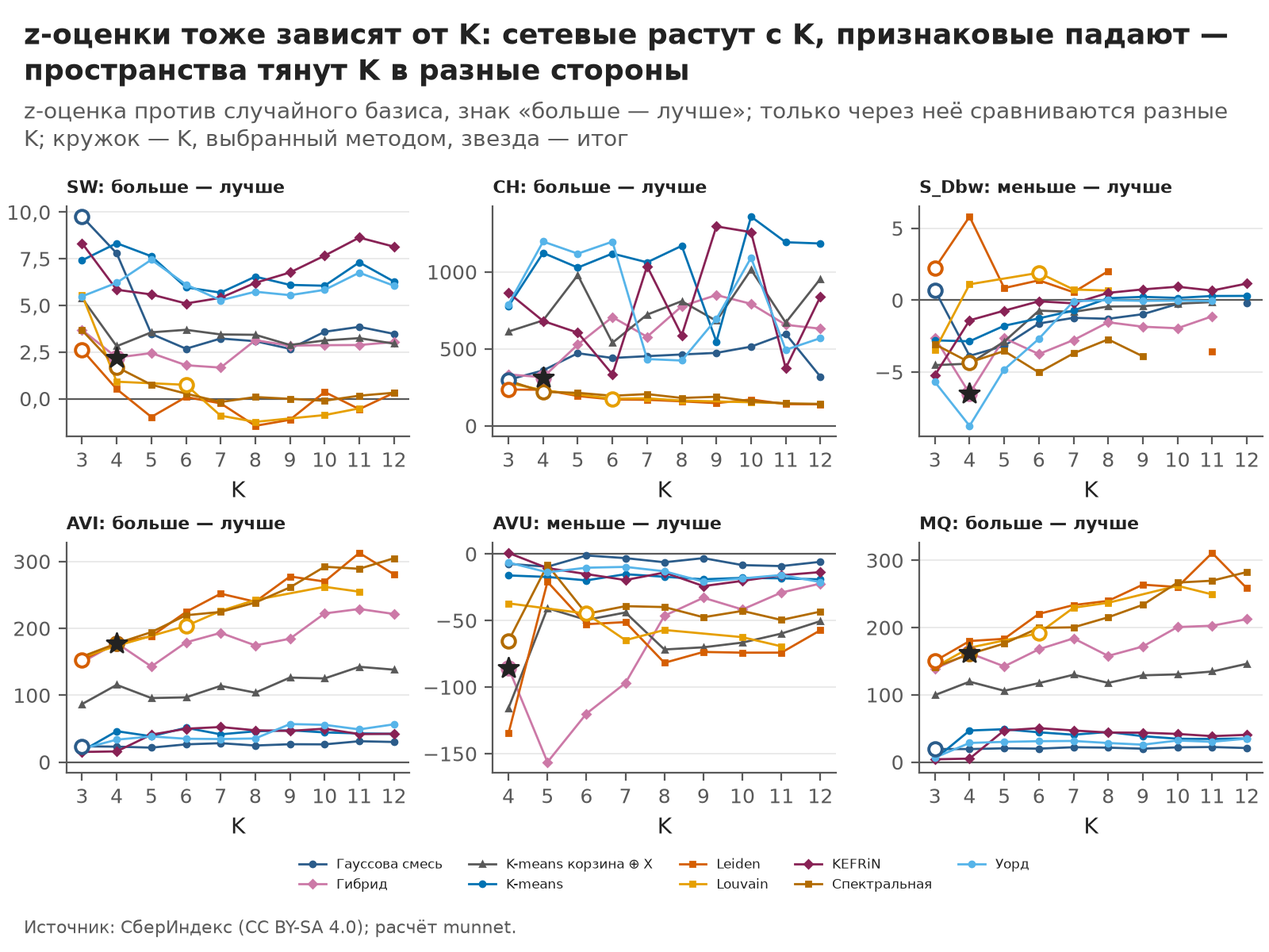
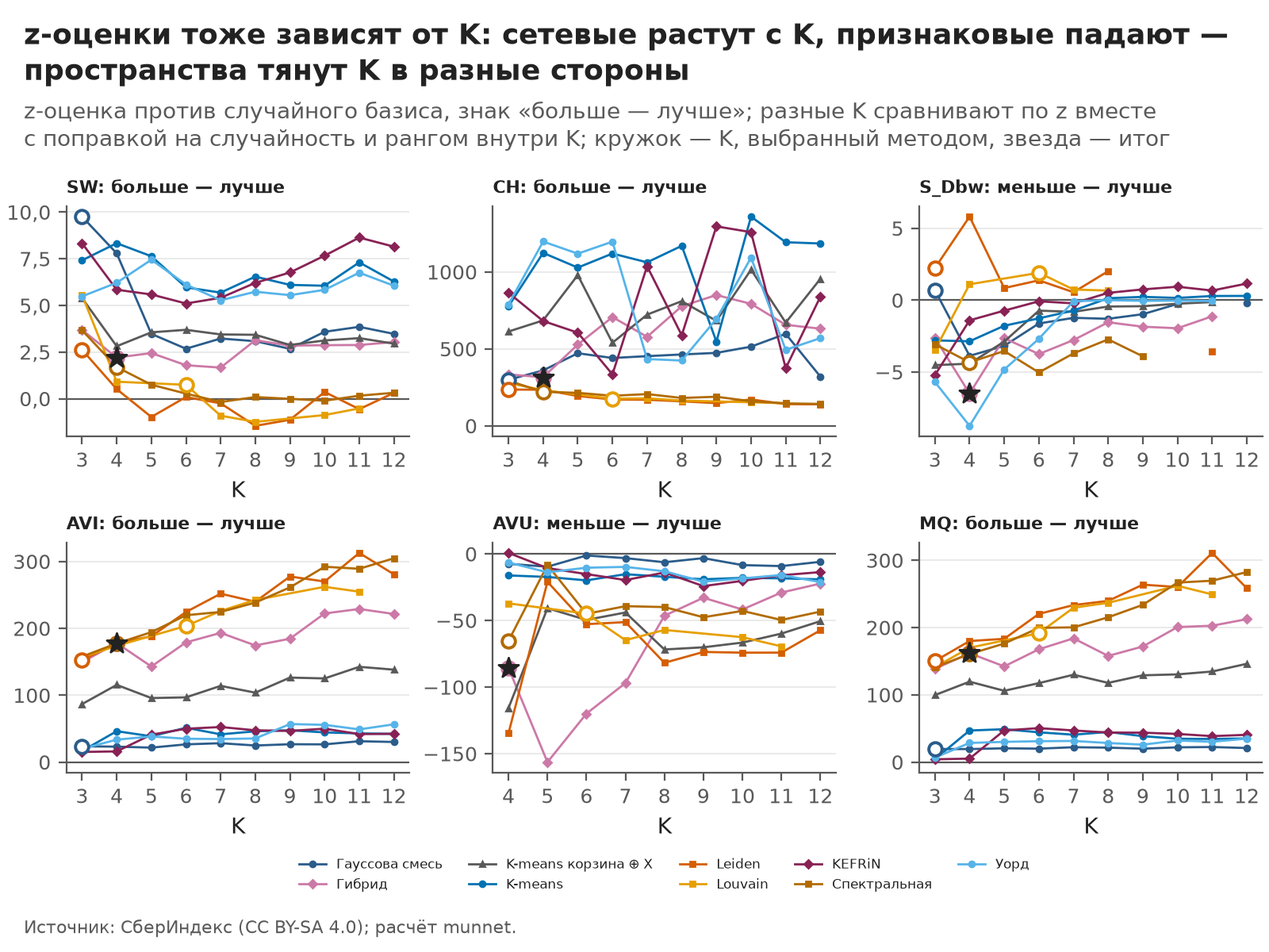
Отчёты этапов dynamics и evaluate: правки формулировок по финальному совету 05.10
- docs/dynamics.md: p = 0,379 по уровню трат больше не довод; отношение медиан 1,03 — описание,
  «уровень трат входит в признаки X, по которым строится тип окна, поэтому p по нему тоже смещено»
  (шаблон и CLAIMS munnet.dynamics.report; compute/tracking/windows/params не менялись).
- docs/icvi.md: абзац «CH и силуэт итога» (CH z ≈ 315, доля межгрупповой суммы квадратов 18% —
  считает код, between_share), пункт «Точность z» (≈ 5% при 200 перестановках, 1/√(2(n − 1))),
  подпись рис. I02 без «только через неё сравниваются разные K».
- Этапы dynamics и evaluate перезапущены в основной копии: таблицы и рисунки совпали побайтно,
  кроме замеров времени, I02 (подпись) и пяти новых ключей report_facts.json.

Проверено: check-facts (расхождений нет), тесты dynamics и icvi — 100 passed, ruff чист.

Changed region(s): [[0.5625, 0.0925, 0.9688, 0.1542], [0.0312, 0.1233, 0.5312, 0.1542]]

diff --git a/src/munnet/icvi_report.py b/src/munnet/icvi_report.py
@@ -62,6 +62,28 @@ def cand_label(method: str, k: int) -> str:
     return f"{method_label(method)}, K = {int(k)}"
 
 
+def between_share(ch: float, n: int, k: int) -> float:
+    """Доля межгрупповой суммы квадратов в общей, B / T, по значению CH (Caliński, Harabasz, 1974).
+
+    CH = [B / (K − 1)] / [W / (n − K)] и T = B + W, поэтому B / W = CH · (K − 1) / (n − K) и
+    B / T = CH · (K − 1) / (CH · (K − 1) + n − K) — тождество, без повторного чтения X. Это R² разбиения:
+    какая доля разброса признаков приходится на различия средних типов. n — объекты без шума; NaN, если CH
+    не определён или n ≤ K.
+    """
+    if not np.isfinite(ch) or n <= k or k < 2:
+        return float("nan")
+    b = float(ch) * (k - 1)
+    return b / (b + (n - k))
+
+
+def sd_rel_error(n: int) -> float:
+    """Относительная стандартная ошибка выборочного SD по n значениям нормального распределения:
+    ≈ 1/√(2(n − 1)) (при n = 200 — 5,0%). Знаменатель z — SD случайного базиса, поэтому крупная z
+    (z ≫ 1, ошибка среднего базиса пренебрежимо мала) колеблется относительно на столько же; при тяжёлом
+    хвосте базиса — сильнее. NaN при n < 2."""
+    return float(1 / np.sqrt(2 * (n - 1))) if n >= 2 else float("nan")
+
+
 # --- Факты ---------------------------------------------------------------------------------------
 
 
@@ -90,6 +112,9 @@ def build_facts(out: Path, p: EvalParams, extra: Mapping) -> tuple[dict[str, Fac
     _fact(facts, "subsample", style.fmt_pct(p.subsample, 0), "str")
     _fact(facts, "ci_scale", float(np.sqrt(p.subsample / (1 - p.subsample))), "num1")
     _fact(facts, "s_dbw_density", p.options["s_dbw_density"], "str")
+    rel = sd_rel_error(p.permutations)
+    _fact(facts, "z_rel_err", rel, "pct")
+    _fact(facts, "z_rel_err_text", style.fmt_pct(rel, 0), "str")
 
     # итог и победители
     fin = cands.loc[cands["is_final"].astype(bool)]
@@ -118,6 +143,12 @@ def build_facts(out: Path, p: EvalParams, extra: Mapping) -> tuple[dict[str, Fac
                 rank = int((col > z).sum()) + 1 if np.isfinite(z) else None
                 _fact(facts, f"final_rank_{m}", rank, "int")
                 _fact(facts, f"final_rank_n_{m}", len(col), "int")
+        # CH и силуэт итога: доля межгрупповой суммы квадратов в общей (R²) по CH, шум исключён
+        n_ok = int(round(int(extra["n_nodes"]) * (1 - float(f["noise_share"]))))
+        share = between_share(float(w.loc["ch", "value"]), n_ok, int(f["k_eff"]))
+        _fact(facts, "final_between_share", share, "pct")
+        _fact(facts, "final_between_share_text", style.fmt_pct(share, 0), "str")
+        _fact(facts, "final_z_ch_round", w.loc["ch", "z"], "int")
     _fact(facts, "n_winners", int(cands["is_method_winner"].astype(bool).sum()), "int")
 
     # согласие метрик
@@ -556,6 +587,9 @@ CLAIMS: dict[str, Callable[[Mapping[str, Fact]], bool]] = {
         _v(f, "avu_z_neg_share") > 0.5
     ),
     "радиус окрестности S_Dbw убывает с K": lambda f: _v(f, "rho_stdev_k") < 0,
+    "CH итога намного выше случайного (z > 3), а интервал силуэта итога включает ноль": lambda f: (
+        _v(f, "final_z_ch") > 3 and _v(f, "final_sw_lo") <= 0 <= _v(f, "final_sw_hi")
+    ),
     "S_Dbw не определён у части допустимых кандидатов («ломается при больших K»)": lambda f: (
         _v(f, "sdbw_nan") > 0 and _v(f, "stdev_median_nan") < _v(f, "stdev_median_ok")
     ),

diff --git a/tests/test_icvi_stage.py b/tests/test_icvi_stage.py
@@ -372,3 +372,56 @@ def test_k_fair_table(result):
     assert kf.loc[kf["k_eff"] == 4, "rank_in_k_avi"].min() == 1
     assert kf.loc["leiden_k04", "rank_in_k_avi"] == 1  # посаженное разбиение сети — лучшее при K = 4
     assert kf["pct_avi"].between(0, 1).all()
+
+
+# ---------------------------------------------------------------------------------------------
+# Защитные формулировки отчёта (финальный совет 05.10.2026): CH и силуэт, точность z, подпись рис. I02
+
+
+def test_between_share_equals_direct_sum_of_squares():
+    """Доля межгрупповой суммы квадратов в общей, восстановленная из CH, равна прямому счёту B / T."""
+    from sklearn.metrics import calinski_harabasz_score
+
+    x, y = make_blobs(n_samples=[40, 25, 60], n_features=4, cluster_std=3.0, random_state=1)
+    n, k = len(y), 3
+    tot = ((x - x.mean(0)) ** 2).sum()
+    between = sum((y == c).sum() * ((x[y == c].mean(0) - x.mean(0)) ** 2).sum() for c in range(k))
+    ch = calinski_harabasz_score(x, y)
+    assert icvi_report.between_share(ch, n, k) == pytest.approx(between / tot, abs=1e-12)
+    assert icvi_report.between_share(0.0, n, k) == 0.0
+    assert math.isnan(icvi_report.between_share(float("nan"), n, k))
+    assert math.isnan(icvi_report.between_share(ch, k, k))  # n ≤ K: CH не определён
+
+
+def test_sd_rel_error_matches_simulation():
+    """Относительная ошибка SD по n значениям нормального базиса ≈ 1/√(2(n − 1)); при 200 — около 5%."""
+    assert icvi_report.sd_rel_error(200) == pytest.approx(1 / math.sqrt(398))
+    rng = np.random.default_rng(0)
+    sds = rng.normal(size=(4000, 200)).std(axis=1, ddof=1)
+    assert sds.std() / sds.mean() == pytest.approx(icvi_report.sd_rel_error(200), rel=0.08)
+    assert math.isnan(icvi_report.sd_rel_error(1))
+
+
+def test_report_wording_ch_silhouette_z_precision_and_fig2(tmp_path, monkeypatch):
+    ids, x, a, truth = synth()
+    cfg = _cfg(tmp_path)
+    write_table(fake_labels(ids, x, truth), CLUSTER_LABELS, tmp_path / "processed" / "cluster_labels.parquet")
+    monkeypatch.setattr(icvi_stage, "load_xa", lambda cfg: (ids, x, a))
+    monkeypatch.setattr(icvi_report, "CLAIMS", {})
+    icvi.run(cfg)
+    facts = icvi_report.load_facts(tmp_path / "outputs" / "evaluate")
+    md = (tmp_path / "docs" / "icvi.md").read_text(encoding="utf-8").replace(" ", " ")
+    # рис. 2: z тоже зависит от K, поэтому «только через неё сравниваются разные K» — неверно
+    assert "только через неё" not in md
+    assert "поправк" in md.split("*Рисунок 2.")[1].split("Источник")[0]
+    # CH и силуэт сведены одной фразой, доля межгрупповой суммы квадратов — из кода
+    share = facts["icvi.final_between_share"].value
+    assert 0 < share < 1
+    assert facts["icvi.final_between_share_text"].text in md
+    assert "Верно и то и другое" in md
+    # точность z: число — из кода, по числу перестановок
+    assert facts["icvi.z_rel_err"].value == pytest.approx(1 / math.sqrt(2 * (20 - 1)))
+    assert "Точность z" in md and facts["icvi.z_rel_err_text"].text in md
+    # о хвостах базиса — только общее утверждение: распределение базиса в выходах не сохраняется
+    assert "Если у базиса тяжёлый хвост, колебание больше" in md
+    assert "У CH и S_Dbw" not in md

diff --git a/src/munnet/dynamics/report.py b/src/munnet/dynamics/report.py
@@ -377,9 +377,6 @@ CLAIMS: dict[str, Callable[[Mapping[str, Fact]], bool]] = {
         _v(f, f"ev_adj_surv_{t}") == _v(f, "adj_expected") and _v(f, f"ev_fl_surv_{t}") == _v(f, "k")
         for t in ("03", "05", "07")
     ),
-    "уровень трат у перешедших не отличается значимо": lambda f: (
-        _v(f, "drv_level_p") >= _v(f, "driver_alpha")
-    ),
     "фиксированные типы находят меньше смен и надёжных переходов, чем основной": lambda f: (
         _v(f, "n_changed_fixed") < _v(f, "n_changed_main") and _v(f, "n_rel_fixed") < _v(f, "n_rel_main")
     ),
@@ -400,7 +397,9 @@ CLAIMS: dict[str, Callable[[Mapping[str, Fact]], bool]] = {
         _v(f, "n_rel_window") + _v(f, "reliable_same_window") == _v(f, "n_rel_main")
         and _v(f, "n_rel_window_other") == 0
     ),
-    "уровень трат у перешедших меняется не сильнее (отношение < 1,2)": lambda f: (
+    # Про уровень трат текст — только описание по отношению медиан: он входит в признаки X окна, p по нему
+    # смещено (Gao, Bien, Witten, 2022), поэтому утверждения на p не опираются (замечание судьи, 05.10.2026).
+    "уровень трат у перешедших меняется почти так же, как у остальных (отношение < 1,2)": lambda f: (
         _v(f, "drv_level_ratio") < 1.2
     ),
     # Отступление после вскрытия 03.10.2026 (разделы «Главное за минуту» и 6): охраняют его текст.
@@ -410,11 +409,8 @@ CLAIMS: dict[str, Callable[[Mapping[str, Fact]], bool]] = {
     "после вскрытия: первая часть выполняется почти для любой части корзины (значимы не меньше 4 из 6)": (
         lambda f: _v(f, "drv_n_sig") >= 4 and _v(f, "drv_n_parts") == 6
     ),
-    "после вскрытия: уровень трат у перешедших не значим и меняется слабее любой части корзины": (
-        lambda f: (
-            _v(f, "drv_level_p") >= _v(f, "driver_alpha")
-            and _v(f, "drv_level_ratio") < _v(f, "drv_ratio_min")
-        )
+    "после вскрытия: уровень трат у перешедших меняется слабее любой части корзины": (
+        lambda f: _v(f, "drv_level_ratio") < _v(f, "drv_ratio_min")
     ),
     "после вскрытия: по общепиту типы различаются сильнее маркетплейсов и продовольствия, и он первый": (
         lambda f: (

diff --git a/tests/test_dynamics_report.py b/tests/test_dynamics_report.py
@@ -93,7 +93,6 @@ def test_posthoc_claims_hold_on_observed_numbers():
     "over",
     [
         {"drv_n_sig": (3, "int")},  # первая часть выполнилась бы не почти для любой части
-        {"drv_level_p": (0.01, "p")},  # уровень трат у перешедших менялся бы сильнее
         {"drv_level_ratio": (1.3, "num2")},  # уровень не меньше любой части корзины
         {"drv_rank": (1, "int")},  # по записанному правилу — не «частично»
         {"drv_cafe_span": (0.4, "num2")},  # по общепиту типы различались бы не сильнее всего
@@ -101,6 +100,15 @@ def test_posthoc_claims_hold_on_observed_numbers():
 )
 def test_posthoc_claims_break_when_numbers_change(over):
     assert not all(R.CLAIMS[t](_facts(**over)) for t in POSTHOC_CLAIMS)
+
+
+def test_level_p_is_not_an_argument():
+    """Уровень трат входит в признаки X окна: p по нему смещено, поэтому ни текст, ни утверждения на него
+    не опираются (замечание судьи критерия 1, 05.10.2026); отношение медиан остаётся описанием."""
+    assert "dyn.drv_level_p" not in R.TEMPLATE.read_text(encoding="utf-8")
+    for text, fn in R.CLAIMS.items():
+        if "уровень трат" in text:
+            assert fn(_facts(drv_level_p=(0.01, "p"))) == fn(_facts()), text
 
 
 def test_pct_range_keeps_one_percent_sign():

diff --git a/src/munnet/icvi_figures.py b/src/munnet/icvi_figures.py
@@ -125,8 +125,8 @@ def _curves(
         else:
             title = facts["title_z"]
             subtitle = (
-                "z-оценка против случайного базиса, знак «больше — лучше»; только через неё сравниваются "
-                "разные K; кружок — K, выбранный методом, звезда — итог"
+                "z-оценка против случайного базиса, знак «больше — лучше»; разные K сравнивают по z вместе "
+                "с поправкой на случайность и рангом внутри K; кружок — K, выбранный методом, звезда — итог"
             )
         style.finish(fig, title, subtitle, style.SOURCE_SBER)
     data = d[

diff --git a/src/munnet/dynamics/templates/dynamics.md b/src/munnet/dynamics/templates/dynamics.md
@@ -11,7 +11,7 @@
 - **Смена типа за год не подтверждена, хотя в основном расчёте смен больше шума.** Между окнами 2023 и 2024 годов тип сменили {{dyn.change_main}} узлов сети ({{dyn.n_changed_main}} из {{dyn.n_nodes}}; 95% интервал {{dyn.change_ci_main}}). Разбиения одного года на нечётных и на чётных месяцах расходятся у {{dyn.noise_main}} узлов — это шум. Разность {{dyn.diff_main}}, 95% интервал бутстрапа узлов от {{dyn.lo_main}} до {{dyn.hi_main}} п. п.: по заранее записанному правилу изменение сверх шума. Тот же вывод дают все три способа отслеживания. При другом правиле связей между МО («косинус корзин») надёжных смен не больше, чем на плацебо — наборах месяцев без хода времени. Поэтому по заранее записанному правилу этапа 5 смена типа за год не подтверждена (проверка T3, `docs/interpretation.md`, разделы 6 и 8).
 - **Надёжных переходов {{dyn.n_rel_main}}** ({{dyn.share_rel_main}} узлов): тип совпал на нечётных и чётных месяцах каждого года, а типы двух лет разные. Больше всего переходов {{dyn.flows_main}}; два крупнейших потока — {{dyn.top2_share}} надёжных переходов. Переходы есть в {{dyn.n_regions_rel}} регионах из {{dyn.n_regions}}.
 - **Сами типы устойчивы, двигаются узлы.** Во всех {{dyn.n_adjacent}} парах соседних окон и между 2023 и 2024 годами каждый из {{dyn.k}} типов «сохранился» при любом пороге Жаккара от {{dyn.tau_lo}} до {{dyn.tau_hi}}: ни один тип не разделился, не слился с другим и не исчез. Меняется состав типов по краям.
-- **Маркетплейсы: по записанному правилу — «частично», после вскрытия — не подтверждено.** Проверка сюжета о маркетплейсах по записанному правилу {{dyn.drv_verdict}}. У узлов с надёжным переходом доля маркетплейсов в корзине изменилась сильнее, чем у сохранивших тип (отношение медиан |изменения| {{dyn.drv_ratio}}, p = {{dyn.drv_p}}), но маркетплейсы по этому отношению {{dyn.drv_rank}}-е из {{dyn.drv_n_parts}} частей корзины. После вскрытия видно, что первая часть ничего не проверяет (отступление после вскрытия 03.10.2026): тип окна строится прежде всего по сети корзин, поэтому у сменивших тип сильнее меняется почти любая часть корзины — у {{dyn.drv_n_sig}} частей из {{dyn.drv_n_parts}} p < {{dyn.driver_alpha}}, отношения медиан — от {{dyn.drv_ratio_min}} до {{dyn.drv_ratio_max}}. Уровень трат в сеть корзин не входит (он среди признаков X), и у перешедших он меняется так же, как у остальных (отношение {{dyn.drv_level_ratio}}, p = {{dyn.drv_level_p}}). Поэтому этим тестом гипотеза о маркетплейсах не подтверждена, а первое место общепита по отношению медиан ({{dyn.drv_top_ratio}}) — описание (раздел 6).
+- **Маркетплейсы: по записанному правилу — «частично», после вскрытия — не подтверждено.** Проверка сюжета о маркетплейсах по записанному правилу {{dyn.drv_verdict}}. У узлов с надёжным переходом доля маркетплейсов в корзине изменилась сильнее, чем у сохранивших тип (отношение медиан |изменения| {{dyn.drv_ratio}}, p = {{dyn.drv_p}}), но маркетплейсы по этому отношению {{dyn.drv_rank}}-е из {{dyn.drv_n_parts}} частей корзины. После вскрытия видно, что первая часть ничего не проверяет (отступление после вскрытия 03.10.2026): тип окна строится прежде всего по сети корзин, поэтому у сменивших тип сильнее меняется почти любая часть корзины — у {{dyn.drv_n_sig}} частей из {{dyn.drv_n_parts}} p < {{dyn.driver_alpha}}, отношения медиан — от {{dyn.drv_ratio_min}} до {{dyn.drv_ratio_max}}. Поэтому этим тестом гипотеза о маркетплейсах не подтверждена, а первое место общепита по отношению медиан ({{dyn.drv_top_ratio}}) — описание (раздел 6). Уровень трат в сеть корзин не входит, и у перешедших он меняется почти так же, как у остальных (отношение медиан {{dyn.drv_level_ratio}}). Это тоже описание: уровень трат входит в признаки X, по которым строится тип окна, поэтому p по нему тоже смещено.
 - **Узлы переходят вдоль оси типов** (описание). Типы выстроены вдоль одной оси «общепит против маркетплейсов и продуктов»: где доля общепита относительно региона выросла, а маркетплейсов упала, узел переходит в тип «ближе к городу» (с большим населением и доступностью рынков относительно региона), и наоборот.
 - **Способы согласны.** Эволюционная кластеризация со сглаживанием почти повторяет основной способ (ARI переходов {{dyn.ari_tr_evo}}), фиксированные типы — чуть слабее ({{dyn.ari_tr_fixed}}): они не дают типам сдвигаться вместе с корзиной и находят {{dyn.n_changed_fixed}} смен против {{dyn.n_changed_main}} у основного.
 
@@ -110,7 +110,7 @@
 
 - **По записанному правилу — частично.** Первая часть выполнена (p = {{dyn.drv_p}}, отношение медиан {{dyn.drv_ratio}}), вторая — нет: маркетплейсы {{dyn.drv_rank}}-е из {{dyn.drv_n_parts}} частей корзины.
 - **После вскрытия первая часть выполняется почти для любой части корзины.** Тип окна строится по сети корзин (рёбра — расстояние корзин относительно региона) и по признакам X. Узел, сменивший тип, сдвинулся по корзине, поэтому у сменивших тип сильнее меняется почти любая часть корзины, по которой различаются типы. В таблице ниже p < {{dyn.driver_alpha}} у {{dyn.drv_n_sig}} частей из {{dyn.drv_n_parts}}, не значимы: {{dyn.drv_nonsig}}; отношения медиан — от {{dyn.drv_ratio_min}} ({{dyn.drv_ratio_min_part}}) до {{dyn.drv_ratio_max}}. Нулевая гипотеза теста («у перешедших часть корзины меняется так же, как у остальных») неверна по построению типов, и малое p ничего не говорит о роли маркетплейсов. Это та ошибка, которую разбирают Gao, Bien, Witten (2022): p-значения по признакам, по которым построены кластеры, некорректны. Для профилей типов это правило в проекте записано (блок `interpret` в `configs/default.yaml`), а к этой проверке его не применили.
-- **Уровень трат.** Он входит в признаки окна X и меняется от окна к окну, но в сеть корзин не входит. У перешедших он меняется так же, как у остальных: отношение {{dyn.drv_level_ratio}}, p = {{dyn.drv_level_p}}, меньше, чем у любой части корзины. Это согласуется с тем, что переходы в основном отражают сдвиг корзины. Это описание: p уровня трат тоже посчитано по признаку, по которому строятся типы.
+- **Уровень трат.** Он входит в признаки окна X и меняется от окна к окну, но в сеть корзин не входит. У перешедших он меняется почти так же, как у остальных: отношение медиан {{dyn.drv_level_ratio}} — меньше, чем у любой части корзины. Это согласуется с тем, что переходы в основном отражают сдвиг корзины. Это тоже описание: уровень трат входит в признаки X, по которым строится тип окна, поэтому p по нему тоже смещено (в таблице ниже оно приведено как данные).
 - **Вывод.** Этим тестом гипотеза «сдвиг к маркетплейсам перестраивает типы» не подтверждена. Первое место общепита по отношению медиан ({{dyn.drv_top_ratio}}) — описание: по доле общепита типы различаются сильнее всего (размах медиан типов {{dyn.drv_cafe_span}} против {{dyn.drv_mp_span}} у маркетплейсов и {{dyn.drv_food_span}} у продуктов, `outputs/dynamics/types.csv`), поэтому при смене типа она и меняется сильнее.
 
 <!-- table: driver -->
@@ -124,7 +124,7 @@
 Прочтение по записанному правилу; после вскрытия первая часть ничего не проверяет (отступление выше):
 
 - Первая часть выполнена: p = {{dyn.drv_p}}, AUC {{dyn.drv_auc}}, отношение медиан {{dyn.drv_ratio}}.
-- Вторая — нет: маркетплейсы по отношению медиан {{dyn.drv_rank}}-е из шести, первое место — у общепита ({{dyn.drv_top_ratio}}, p = {{dyn.drv_top_p}}). Уровень трат у перешедших меняется не сильнее, чем у остальных (отношение {{dyn.drv_level_ratio}}, p = {{dyn.drv_level_p}}).
+- Вторая — нет: маркетплейсы по отношению медиан {{dyn.drv_rank}}-е из шести, первое место — у общепита ({{dyn.drv_top_ratio}}, p = {{dyn.drv_top_p}}). Уровень трат у перешедших меняется почти так же, как у остальных (отношение медиан {{dyn.drv_level_ratio}}); это описание, p по нему тоже смещено (отступление выше).
 - Если «без смены» понимать строже — тип совпал в обеих половинах обоих лет и в окнах ({{dyn.drv_alt_n}} узлов), — по записанному правилу вывод тот же: p = {{dyn.drv_alt_p}}, отношение {{dyn.drv_alt_ratio}}, первое место — у доли трат на {{dyn.drv_alt_top}}.
 - Как читать. Корзина здесь — относительно своего региона, поэтому общий для всех рост маркетплейсов вычтен; переход типа задаёт то, как узел сдвинулся относительно соседей по региону. Маркетплейсы лежат на одной оси с общепитом (раздел 5), а сильнее всего у перешедших меняется доля общепита — это описание (отступление выше). Сюжет для лендинга стоит формулировать так: «переходы идут по оси „общепит против маркетплейсов“, и сильнее всего у перешедших меняется доля общепита».
 

diff --git a/docs/dynamics.md b/docs/dynamics.md
@@ -11,7 +11,7 @@
 - **Смена типа за год не подтверждена, хотя в основном расчёте смен больше шума.** Между окнами 2023 и 2024 годов тип сменили 15,3% узлов сети (272 из 1776; 95% интервал 13,7–17,1%). Разбиения одного года на нечётных и на чётных месяцах расходятся у 5,5% узлов — это шум. Разность +9,8 п. п., 95% интервал бутстрапа узлов от 8,3 до 11,5 п. п.: по заранее записанному правилу изменение сверх шума. Тот же вывод дают все три способа отслеживания. При другом правиле связей между МО («косинус корзин») надёжных смен не больше, чем на плацебо — наборах месяцев без хода времени. Поэтому по заранее записанному правилу этапа 5 смена типа за год не подтверждена (проверка T3, `docs/interpretation.md`, разделы 6 и 8).
 - **Надёжных переходов 181** (10,2% узлов): тип совпал на нечётных и чётных месяцах каждого года, а типы двух лет разные. Больше всего переходов из 2 в 1 — 74, из 1 в 3 — 55, из 1 в 2 — 26, из 3 в 4 — 18; два крупнейших потока — 71,3% надёжных переходов. Переходы есть в 55 регионах из 73.
 - **Сами типы устойчивы, двигаются узлы.** Во всех 12 парах соседних окон и между 2023 и 2024 годами каждый из 4 типов «сохранился» при любом пороге Жаккара от 0,3 до 0,7: ни один тип не разделился, не слился с другим и не исчез. Меняется состав типов по краям.
-- **Маркетплейсы: по записанному правилу — «частично», после вскрытия — не подтверждено.** Проверка сюжета о маркетплейсах по записанному правилу подтвердилась частично: первая часть выполнена, вторая — нет, наибольшее отношение у доли трат на общепит. У узлов с надёжным переходом доля маркетплейсов в корзине изменилась сильнее, чем у сохранивших тип (отношение медиан |изменения| 1,25, p = 0,001), но маркетплейсы по этому отношению 5-е из 6 частей корзины. После вскрытия видно, что первая часть ничего не проверяет (отступление после вскрытия 03.10.2026): тип окна строится прежде всего по сети корзин, поэтому у сменивших тип сильнее меняется почти любая часть корзины — у 5 частей из 6 p < 0,05, отношения медиан — от 1,18 до 2,11. Уровень трат в сеть корзин не входит (он среди признаков X), и у перешедших он меняется так же, как у остальных (отношение 1,03, p = 0,379). Поэтому этим тестом гипотеза о маркетплейсах не подтверждена, а первое место общепита по отношению медиан (2,11) — описание (раздел 6).
+- **Маркетплейсы: по записанному правилу — «частично», после вскрытия — не подтверждено.** Проверка сюжета о маркетплейсах по записанному правилу подтвердилась частично: первая часть выполнена, вторая — нет, наибольшее отношение у доли трат на общепит. У узлов с надёжным переходом доля маркетплейсов в корзине изменилась сильнее, чем у сохранивших тип (отношение медиан |изменения| 1,25, p = 0,001), но маркетплейсы по этому отношению 5-е из 6 частей корзины. После вскрытия видно, что первая часть ничего не проверяет (отступление после вскрытия 03.10.2026): тип окна строится прежде всего по сети корзин, поэтому у сменивших тип сильнее меняется почти любая часть корзины — у 5 частей из 6 p < 0,05, отношения медиан — от 1,18 до 2,11. Поэтому этим тестом гипотеза о маркетплейсах не подтверждена, а первое место общепита по отношению медиан (2,11) — описание (раздел 6). Уровень трат в сеть корзин не входит, и у перешедших он меняется почти так же, как у остальных (отношение медиан 1,03). Это тоже описание: уровень трат входит в признаки X, по которым строится тип окна, поэтому p по нему тоже смещено.
 - **Узлы переходят вдоль оси типов** (описание). Типы выстроены вдоль одной оси «общепит против маркетплейсов и продуктов»: где доля общепита относительно региона выросла, а маркетплейсов упала, узел переходит в тип «ближе к городу» (с большим населением и доступностью рынков относительно региона), и наоборот.
 - **Способы согласны.** Эволюционная кластеризация со сглаживанием почти повторяет основной способ (ARI переходов 0,99), фиксированные типы — чуть слабее (0,91): они не дают типам сдвигаться вместе с корзиной и находят 250 смен против 272 у основного.
 
@@ -182,7 +182,7 @@
 
 - **По записанному правилу — частично.** Первая часть выполнена (p = 0,001, отношение медиан 1,25), вторая — нет: маркетплейсы 5-е из 6 частей корзины.
 - **После вскрытия первая часть выполняется почти для любой части корзины.** Тип окна строится по сети корзин (рёбра — расстояние корзин относительно региона) и по признакам X. Узел, сменивший тип, сдвинулся по корзине, поэтому у сменивших тип сильнее меняется почти любая часть корзины, по которой различаются типы. В таблице ниже p < 0,05 у 5 частей из 6, не значимы: транспорт (p = 0,063); отношения медиан — от 1,18 (транспорт) до 2,11. Нулевая гипотеза теста («у перешедших часть корзины меняется так же, как у остальных») неверна по построению типов, и малое p ничего не говорит о роли маркетплейсов. Это та ошибка, которую разбирают Gao, Bien, Witten (2022): p-значения по признакам, по которым построены кластеры, некорректны. Для профилей типов это правило в проекте записано (блок `interpret` в `configs/default.yaml`), а к этой проверке его не применили.
-- **Уровень трат.** Он входит в признаки окна X и меняется от окна к окну, но в сеть корзин не входит. У перешедших он меняется так же, как у остальных: отношение 1,03, p = 0,379, меньше, чем у любой части корзины. Это согласуется с тем, что переходы в основном отражают сдвиг корзины. Это описание: p уровня трат тоже посчитано по признаку, по которому строятся типы.
+- **Уровень трат.** Он входит в признаки окна X и меняется от окна к окну, но в сеть корзин не входит. У перешедших он меняется почти так же, как у остальных: отношение медиан 1,03 — меньше, чем у любой части корзины. Это согласуется с тем, что переходы в основном отражают сдвиг корзины. Это тоже описание: уровень трат входит в признаки X, по которым строится тип окна, поэтому p по нему тоже смещено (в таблице ниже оно приведено как данные).
 - **Вывод.** Этим тестом гипотеза «сдвиг к маркетплейсам перестраивает типы» не подтверждена. Первое место общепита по отношению медиан (2,11) — описание: по доле общепита типы различаются сильнее всего (размах медиан типов 1,21 против 0,52 у маркетплейсов и 0,53 у продуктов, `outputs/dynamics/types.csv`), поэтому при смене типа она и меняется сильнее.
 
 | Показатель | Медиана модуля Δ: переход | Медиана модуля Δ: без смены | Отношение | Медиана Δ: переход | AUC | p (Манн — Уитни, односторонний) |
@@ -206,7 +206,7 @@
 Прочтение по записанному правилу; после вскрытия первая часть ничего не проверяет (отступление выше):
 
 - Первая часть выполнена: p = 0,001, AUC 0,57, отношение медиан 1,25.
-- Вторая — нет: маркетплейсы по отношению медиан 5-е из шести, первое место — у общепита (2,11, p = 3,3·10⁻²²). Уровень трат у перешедших меняется не сильнее, чем у остальных (отношение 1,03, p = 0,379).
+- Вторая — нет: маркетплейсы по отношению медиан 5-е из шести, первое место — у общепита (2,11, p = 3,3·10⁻²²). Уровень трат у перешедших меняется почти так же, как у остальных (отношение медиан 1,03); это описание, p по нему тоже смещено (отступление выше).
 - Если «без смены» понимать строже — тип совпал в обеих половинах обоих лет и в окнах (1399 узлов), — по записанному правилу вывод тот же: p = 6,7·10⁻⁴, отношение 1,27, первое место — у доли трат на общепит.
 - Как читать. Корзина здесь — относительно своего региона, поэтому общий для всех рост маркетплейсов вычтен; переход типа задаёт то, как узел сдвинулся относительно соседей по региону. Маркетплейсы лежат на одной оси с общепитом (раздел 5), а сильнее всего у перешедших меняется доля общепита — это описание (отступление выше). Сюжет для лендинга стоит формулировать так: «переходы идут по оси „общепит против маркетплейсов“, и сильнее всего у перешедших меняется доля общепита».
 

diff --git a/docs/icvi.md b/docs/icvi.md
@@ -39,6 +39,7 @@ $$\mathrm{Iso}_k = \frac{ M_{kk} }{ \sum_l M_{kl} }, \quad U_{kl} = \frac{ M_{kl
 
 - **Входы — те же, что у этапа `cluster`:** X — признаки после замены пропусков и робастного масштаба, G — сеть корзины (расстояние корзин, kNN, веса — сходство). Шум HDBSCAN исключается: из X — строки, из G — узлы и их рёбра.
 - **Случайный базис:** 200 перестановок меток с теми же размерами кластеров, те же перестановки, что у этапа `cluster`, поэтому z совпадают с его критериями выбора (сверка с этапом `cluster`: пар «кандидат × индекс» с определённой z — 501, все совпадают с точностью до округления в его таблице, неопределённые z — у тех же кандидатов). Если разброс базиса на уровне ошибки округления (так бывает у AVU при K = 2 и 3), z не определена: индекс на таком кандидате не информативен.
+- **Точность z.** Знаменатель z — разброс базиса — оценён по 200 перестановкам, поэтому сама z неточна: даже при нормальном базисе относительная ошибка разброса около 5% ($1/\sqrt{2(n - 1)}$, n — число перестановок), и крупная z колеблется примерно на столько же. Если у базиса тяжёлый хвост, колебание больше. Поэтому крупные z (десятки и сотни) читаются как порядок величины: разница в несколько процентов между ними — в пределах точности.
 - **Интервалы (95%):** 100 подвыборок по 80% узлов без возвращения — те же, что в проверке устойчивости этапа `cluster`. Метки не пересчитываются: интервал показывает, насколько индекс зависит от состава территорий при данном разбиении. Разброс подвыборки меньше выборочного, поэтому отклонения умножаются на 2,0 (корень из m/(n − m)).
 
 ## 3. Победители методов и итог
@@ -63,6 +64,8 @@ $$\mathrm{Iso}_k = \frac{ M_{kk} }{ \sum_l M_{kl} }, \quad U_{kl} = \frac{ M_{kl
 
 У итога (Гибрид, K = 4) z отрицательна по S_Dbw, AVU — по этим индексам он хуже случайных меток тех же размеров; интервал силуэта [−0,002; 0,020] включает ноль: в признаках типы итога почти не разделены, а в сети изолированы (z AVI 178,0, z MQ 161,9).
 
+**CH и силуэт итога.** CH с z ≈ 315 значит, что средние типов в признаках X различаются намного сильнее, чем у случайных меток тех же размеров: на различия между типами приходится около 18% общего разброса признаков. Силуэт 0,007 говорит об отдельных МО: в среднем МО почти так же близко к соседнему типу, как к своему, — границы между типами размыты. Верно и то и другое.
+
 ## 4. Индексы по числу типов
 
 <a name=fig-1></a>![Шесть панелей, по одной на индекс; по оси X — число типов K, линии — методы; серая полоса — случайный базис](img/icvi/I01_by_k.png)
@@ -71,7 +74,7 @@ $$\mathrm{Iso}_k = \frac{ M_{kk} }{ \sum_l M_{kl} }, \quad U_{kl} = \frac{ M_{kl
 
 <a name=fig-2></a>![Шесть панелей, по одной на индекс; по оси X — число типов K, линии — методы; нулевая линия — уровень случайных меток](img/icvi/I02_z_by_k.png)
 
-*Рисунок 2. z-оценки тоже зависят от K: сетевые растут с K, признаковые падают — пространства тянут K в разные стороны. z-оценка против случайного базиса, знак «больше — лучше»; только через неё сравниваются разные K; кружок — K, выбранный методом, звезда — итог. Источник: СберИндекс (CC BY-SA 4.0).* Данные: `outputs/evaluate/figures/I02_z_by_k.csv`.
+*Рисунок 2. z-оценки тоже зависят от K: сетевые растут с K, признаковые падают — пространства тянут K в разные стороны. z-оценка против случайного базиса, знак «больше — лучше»; разные K сравнивают по z вместе с поправкой на случайность и рангом внутри K; кружок — K, выбранный методом, звезда — итог. Источник: СберИндекс (CC BY-SA 4.0).* Данные: `outputs/evaluate/figures/I02_z_by_k.csv`.
 
 Связь с K по допустимым кандидатам — сырые значения и z-оценки:
 

diff --git a/src/munnet/templates/icvi.md b/src/munnet/templates/icvi.md
@@ -71,6 +71,11 @@ $$\mathrm{Iso}_k = \frac{ M_{kk} }{ \sum_l M_{kl} }, \quad U_{kl} = \frac{ M_{kl
   перестановки, что у этапа `cluster`, поэтому z совпадают с его критериями выбора ({{icvi.z_match_text}}). Если разброс базиса
   на уровне ошибки округления (так бывает у AVU при K = 2 и 3), z не определена: индекс на таком кандидате
   не информативен.
+- **Точность z.** Знаменатель z — разброс базиса — оценён по {{icvi.permutations}} перестановкам, поэтому сама
+  z неточна: даже при нормальном базисе относительная ошибка разброса около {{icvi.z_rel_err_text}}
+  ($1/\sqrt{2(n - 1)}$, n — число перестановок), и крупная z колеблется примерно на столько же. Если у базиса
+  тяжёлый хвост, колебание больше. Поэтому крупные z (десятки и сотни) читаются как порядок
+  величины: разница в несколько процентов между ними — в пределах точности.
 - **Интервалы ({{icvi.ci_level}}):** {{icvi.bootstrap}} подвыборок по {{icvi.subsample}} узлов без
   возвращения — те же, что в проверке устойчивости этапа `cluster`. Метки не пересчитываются: интервал
   показывает, насколько индекс зависит от состава территорий при данном разбиении. Разброс подвыборки меньше
@@ -85,6 +90,12 @@ $$\mathrm{Iso}_k = \frac{ M_{kk} }{ \sum_l M_{kl} }, \quad U_{kl} = \frac{ M_{kl
 <!-- table: winners_graph -->
 
 {{icvi.final_text}}.
+
+**CH и силуэт итога.** CH с z ≈ {{icvi.final_z_ch_round}} значит, что средние типов в признаках X различаются
+намного сильнее, чем у случайных меток тех же размеров: на различия между типами приходится около
+{{icvi.final_between_share_text}} общего разброса признаков. Силуэт {{icvi.final_sw}} говорит об отдельных МО:
+в среднем МО почти так же близко к соседнему типу, как к своему, — границы между типами размыты. Верно и то
+и другое.
 
 ## 4. Индексы по числу типов
 
